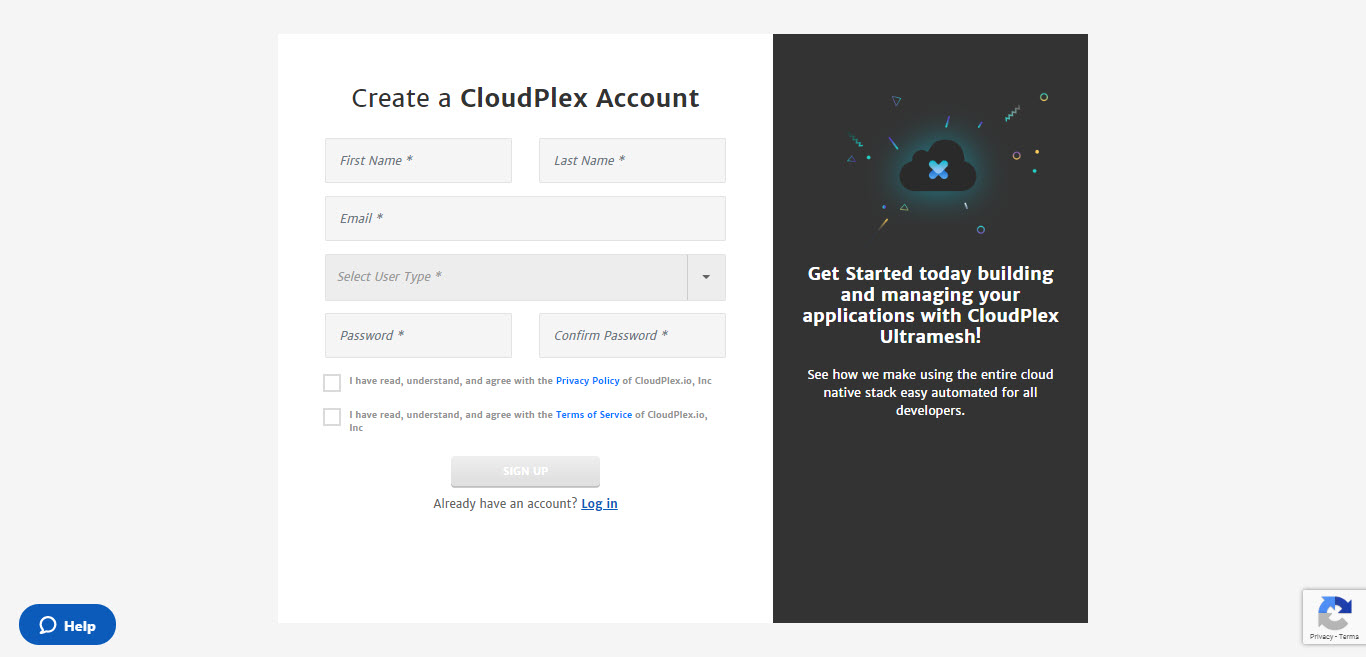
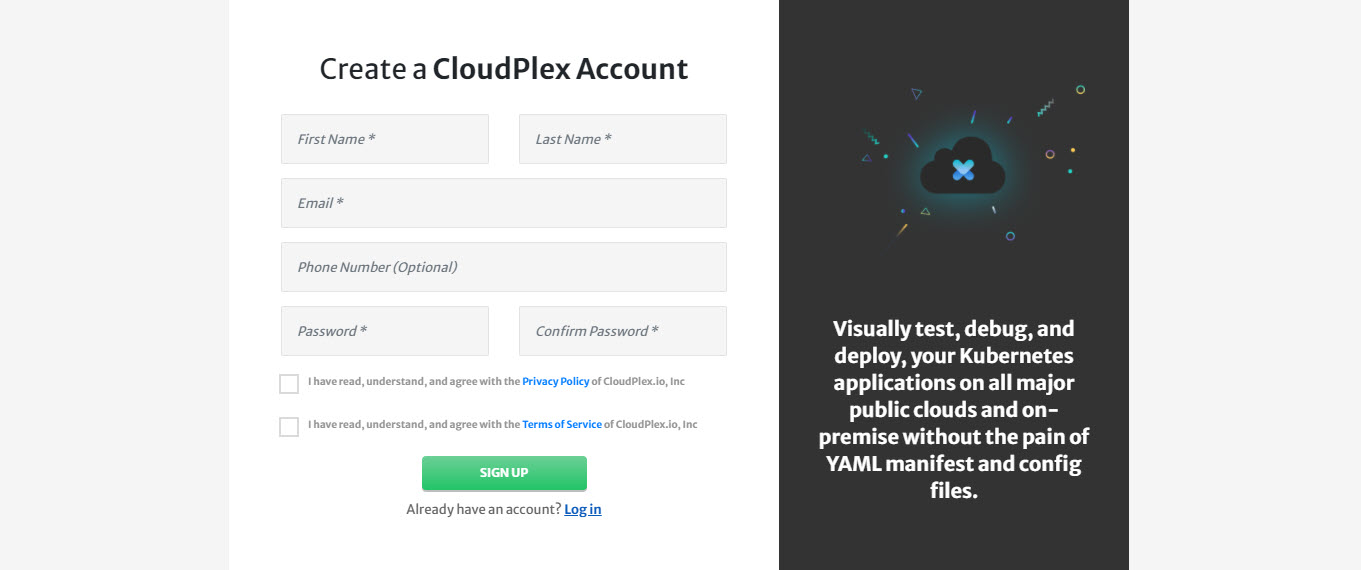
changes

diff --git a/pages/user-guide/tutorials/test-and-debug-your-applications/test-and-debug-your-applications.md b/pages/user-guide/tutorials/test-and-debug-your-applications/test-and-debug-your-applications.md
@@ -1,0 +1,65 @@
+# Test and Debug your Applications
+
+Developers need to test and debug their applications once it is designed, configured, built, and deployed on the dev cloud. The purpose of this guide is to take user thorough the process of application testing and debugging.
+
+>  For our detailed guide on how to build an application, click [here](/pages/user-guide/tutorials/build-application-with-cloudplex/build-application-with-cloudplex?id=build-application-with-cloudplex).
+
+To get started:
+
+1. Navigate to ViziPlex and select any **Deployed** application
+
+   ![1](imgs/1.png)
+
+2. Navigate to TelePlex and install the TelePlex proxy.
+
+   - Download the configuration file.
+
+   - Download the correct binary file for your operating system.
+
+     ![2](imgs/2.png)
+
+   - Download the Kubeconfig file of your kubernetes cluster and add the path of your file with the kubeconfig parameter in the downloaded configurations file as shown on the screen.
+
+     ![3](imgs/3.png)
+
+     ![4](imgs/4.png)
+
+   - Then run TelePlex using the command shown on the screen.
+
+   - Once this validates you will see the logs shown on the screen.
+
+     ![5](imgs/5.png)
+
+   - Now we are ready to test and debug our application.
+
+3. You can see the application is deployed on the cluster, now we will debug a new UI for the product page service. 
+
+   ![6](imgs/6.png)
+
+4. Once TelePlex is connected move to the configurations.
+   From here you can change the traffic from the cluster to your local services and vice versaMake sure when doing so that the services you want to test are in running state on your local machine [Run productpage in VS Code] 
+
+   ![7](imgs/7.png)
+
+5. Switching the incoming traffic on for a service will route the incoming traffic to your local machine, and switching the outgoing traffic on will send traffic from your local machine to the services on the cluster.
+
+6. This is how developers can test and debug the application directly from their IDEs to the cloud without repeatedly pushing, building, and deploying code to a kubernetes cluster.
+
+7. From here you can step through your code calling the microservice and invoking API calls from your IDE.
+
+8. As you can see now we are debugging the new UI.
+
+9. The call is flowing from the calling microservice, through TelePlex, to the CloudPlex debugging dashboards, to the cloud, and then returning through the dashboards, through the TelePlex proxy to the called Microservice.
+
+10. You can trace through the debugging dashboards to visually debug your application.
+
+11. Here you can make use of the multiple debugging and diagnostics dashboards.
+
+12. TelePlex works with various IDEs. First we showed you VS Code, and now we will show you IntelliJ, but TelePlex is not limited to these IDEs.
+
+13. Now we will add the purchases service from our local machine. [show IntelliJ and purchases service]
+
+14. Here we can see the purchase service is running now from our local machine. 
+
+**Conclusion:**
+Hopefully now you have an understanding of how to test and debug your applications with CloudPlex, the Kubernetes Application Platform for developers. 

diff --git a/pages/user-guide/getting-started/getting-started.md b/pages/user-guide/getting-started/getting-started.md
@@ -8,19 +8,26 @@ Now, lets move to the process of signing up and deployment
 
    ![0](imgs/0.jpg)
 
-2. (**In case you haven't received verification email**) Click **Resend Activation Email** to resend the email.
+2. As soon as you sign up you will be redirected to our CloudPlex platform. 
+   CloudPlex provides self guided tours to get users up to speed in no time. Our self guides tour is a great way to learn more about the platform and how to use it. User can also use our live chat feature from the right bottom of the screen to get in touch with our team. 
 
-   ![0.01](imgs/0.01.jpg)
+   > you won't be able to deploy your application or infrastructure until your account is activated.
 
-3. After email verification, you will be able to login to platform.
+   ![1.01](imgs/1.01.jpg)
 
-   > First time user signing up using a company domain will have **Super User** access of platform.  For more details on how super user can invite team members, check our guide on Access Management by clicking [here](/pages/user-guide/components/access-management/access-management).
+3. Activate your account by verifying your email. 
 
    ![0.1](imgs/0.1.jpg)
 
-4. Once logged in, click **Create Application** button to start the application creation wizard. 
+4. After email verification, you will be able to create and deploy your cloud native applications using CloudPlex. 
+
+   > First time user signing up using a company domain will have **Super User** access of platform.  For more details on how super user can invite team members, check our guide on Access Management by clicking [here](/pages/user-guide/components/access-management/access-management).
+
+5. Once inside CloudPlex, you can start building your application using [ViziPlex](/pages/user-guide/components/viziplex/viziplex?id=viziplex). 
 
 ![1](imgs/1.jpg)
+
+![2](imgs/2.jpg)
 
 Two types of applications can be created on CloudPlex.
 
@@ -37,6 +44,5 @@ For a step by step guide on how to configure and manage different type of applic
 
 > To deploy on application on cloud, it is necessary for the user cloud profile to have all the required permissions. For detailed guide on all the required permissions, click [here](/pages/user-guide/components/cloud-authorization-level/cloud-authorization-level).
 
-1. [Create New Application](pages/user-guide/getting-started/create-new-application/create-new-application?id=create-new-application)
-2. [Discover Existing Application](pages/user-guide/getting-started/discover-existing-application/discover-existing-application?id=discover-existing-application)
-3. [How to Configure Infrastructure](pages/user-guide/getting-started/how-to-configure-infrastructure/how-to-configure-infrastructure?id=how-to-configure-infrastructure)
+1. [Build Application with CloudPlex](pages/user-guide/tutorials/build-application-with-cloudplex/build-application-with-cloudplex?id=build-application-with-cloudplex)
+2. [Deploy Infrastructure using KubePlex](/pages/user-guide/tutorials/deploy-infrastructure-using-kubeplex/deploy-infrastructure-using-kubeplex?id=deploy-infrastructure-using-kubeplex)

diff --git a/_sidebar.md b/_sidebar.md
@@ -1,9 +1,5 @@
 - Getting Started
   - [Getting Started](/pages/user-guide/getting-started/getting-started?id=getting-started)
-    - [Create New Application](pages/user-guide/getting-started/create-new-application/create-new-application?id=create-new-application)
-    - [Discover Existing Application](pages/user-guide/getting-started/discover-existing-application/discover-existing-application?id=discover-existing-application)
-    - [How to Configure Infrastructure](pages/user-guide/getting-started/how-to-configure-infrastructure/how-to-configure-infrastructure?id=how-to-configure-infrastructure)
-    - [Cloud Native Security Policy Management](pages/user-guide/getting-started/cloud-native-security-policy-management/cloud-native-security-policy-management?id=cloud-native-security-policy-management)
 - Cloudplex
   - [What is Cloudplex?](pages/user-guide/overview/what-is-cloudplex/what-is-cloudplex?id=what-is-cloudplex)
   - [Cloudplex Features](pages/user-guide/overview/cloudplex-features/cloudplex-features?id=cloudplex-features)
@@ -74,3 +70,4 @@
   - [Deploy Infrastructure using KubePlex](pages/user-guide/tutorials/deploy-infrastructure-using-kubeplex/deploy-infrastructure-using-kubeplex?id=deploy-infrastructure-using-kubeplex)
   - [Attach Persistent Volume with Application](pages/user-guide/tutorials/attach-persistent-volume-with-application/attach-persistent-volume-with-application?id=attach-persistent-volume-with-application)
   - [Build a Self Healing Application](pages/user-guide/tutorials/build-a-self-healing-application/build-a-self-healing-application?id=build-a-self-healing-application)
+  - [Test and Debug your Applications](pages/user-guide/tutorials/test-and-debug-your-applications/test-and-debug-your-applications?id=test-and-debug-your-applications)

diff --git a/pages/user-guide/components/serviceplex/serviceplex.md b/pages/user-guide/components/serviceplex/serviceplex.md
@@ -1,8 +1,8 @@
 # ServicePlex
 
-Service Plex is part of [ViziPlex](/pages/user-guide/components/viziplex/viziplex?id=viziplex). Purpose of this guide is to show how a user can use ServicePlex to add a MySQL service to a deployed application and redeploy it with this added service. 
+ServicePlex is a part of [ViziPlex](/pages/user-guide/components/viziplex/viziplex?id=viziplex). With ServicePlex, user can add Kubernetes-ready services to the applications in seconds. User can choose from 1000s of kubernetes-ready reusable components in the ServicePlex hub and simply drop them in the application. CloudPlex takes care of the all the integration heavy-lifting. 
 
-With ServicePlex, you can add Kubernetes-ready services to your app in seconds. User can choose from 1000s of kubernetes-ready reusable components in the ServicePlex hub and simply drop them in the application. CloudPlex takes care of the all the integration heavy-lifting. For video guide on this, click [here](https://www.youtube.com/watch?v=GCX0BQJTSrE).
+Purpose of this guide is to show how a user can use ServicePlex to add a service to a deployed application and redeploy it with the added service. For video guide on this, click [here](https://www.youtube.com/watch?v=GCX0BQJTSrE).
 
 1. We will start with the book info application. To build this application, see our [guide](/pages/user-guide/getting-started/how-to-build-application-with-cloudplex/how-to-build-application-with-cloudplex?id=how-to-build-application-with-cloudplex) on how to build your first application with CloudPlex.
 

diff --git a/pages/user-guide/tutorials/build-application-with-cloudplex/build-application-with-cloudplex.md b/pages/user-guide/tutorials/build-application-with-cloudplex/build-application-with-cloudplex.md
@@ -1,6 +1,8 @@
 # Build Application with CloudPlex 
 
-The purpose of this guide is to take user through the process of creation and configuration of a Kubernetes application from scratch, without writing a YAML manifest or HELM chart, using the CloudPlex intuitive drag-n-drop interface. For a video guide, please click [here](https://www.youtube.com/watch?v=roXzVpYyZ2o). 
+In CloudPlex an intuitive drag and drop canvas can be used to design, configure, and deploy Kubernetes applications — without the pain of YAML manifest and config files. We understand that Kubernetes YAML configurations are complex so CloudPlex automatically generates and validates YAML manifest, and config files.
+
+The purpose of this guide is to take user through the process of creation and configuration of a Kubernetes application from scratch, without writing a YAML manifest or HELM chart, using the CloudPlex intuitive interface called ViziPlex. For a video guide, please click [here](https://www.youtube.com/watch?v=roXzVpYyZ2o). 
 
 1. Click on the **Create Application** button.
 
